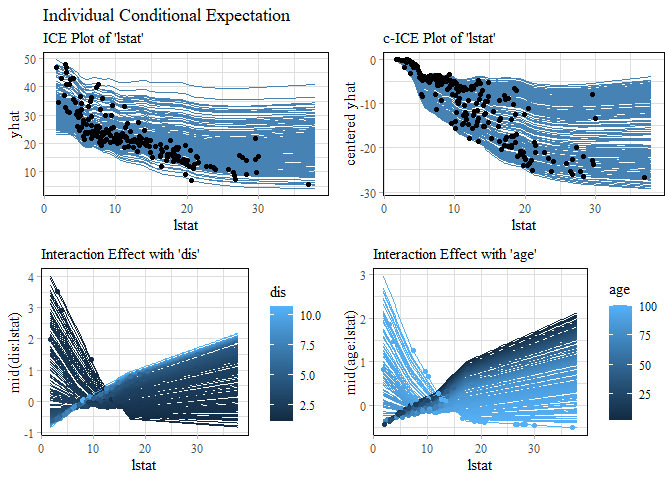
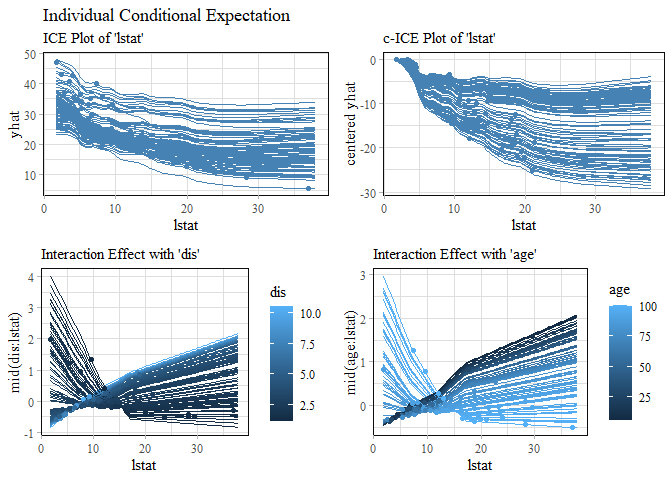
version 0.6.1 - update DESCRIPTION, NEWS and CRAN-comments

diff --git a/NEWS.md b/NEWS.md
@@ -1,11 +1,15 @@
+# midr 0.6.1
+
+-   Fixed methods of `ggmid()` for better compatibility with **ggplot2** ecosystem.
+
 # midr 0.6.0.904
 
--   Fixed methods of `get.yhat` for models created with packages including "model_fit", "workflow" and "rpf".
+-   Fixed methods of `get.yhat()` for models created with packages including "model_fit", "workflow" and "rpf".
 -   `theme_midr()` now accepts optional arguments `...` for new parameters introduced from **ggplot2** 4.0.0; `ink`, `paper` and `accent`.
 
 # midr 0.6.0.903
 
--   Added methods of `get.yhat` for models created with packages including **aorsf**, **flexsurv** and **mboost**.
+-   Added methods of `get.yhat()` for models created with packages including **aorsf**, **flexsurv** and **mboost**.
 
 # midr 0.6.0.902
 

diff --git a/README.md b/README.md
@@ -167,7 +167,7 @@ curves by main and interaction effects.
 
 ``` r
 # visualize the ICE curves of the MID model
-ice <- mid.conditional(mid, "lstat", max.nsamples = 200)
+ice <- mid.conditional(mid, "lstat", max.nsamples = 100)
 grid.arrange(
   ggmid(ice, color = "steelblue") +
     labs(title = "Individual Conditional Expectation",

diff --git a/cran-comments.md b/cran-comments.md
@@ -1,6 +1,6 @@
 ## Submission Type
 
-This is a patch release of **midr 0.6.0**.
+This is a patch release of **midr 0.6.1**.
 
 ## Test Environments
 
